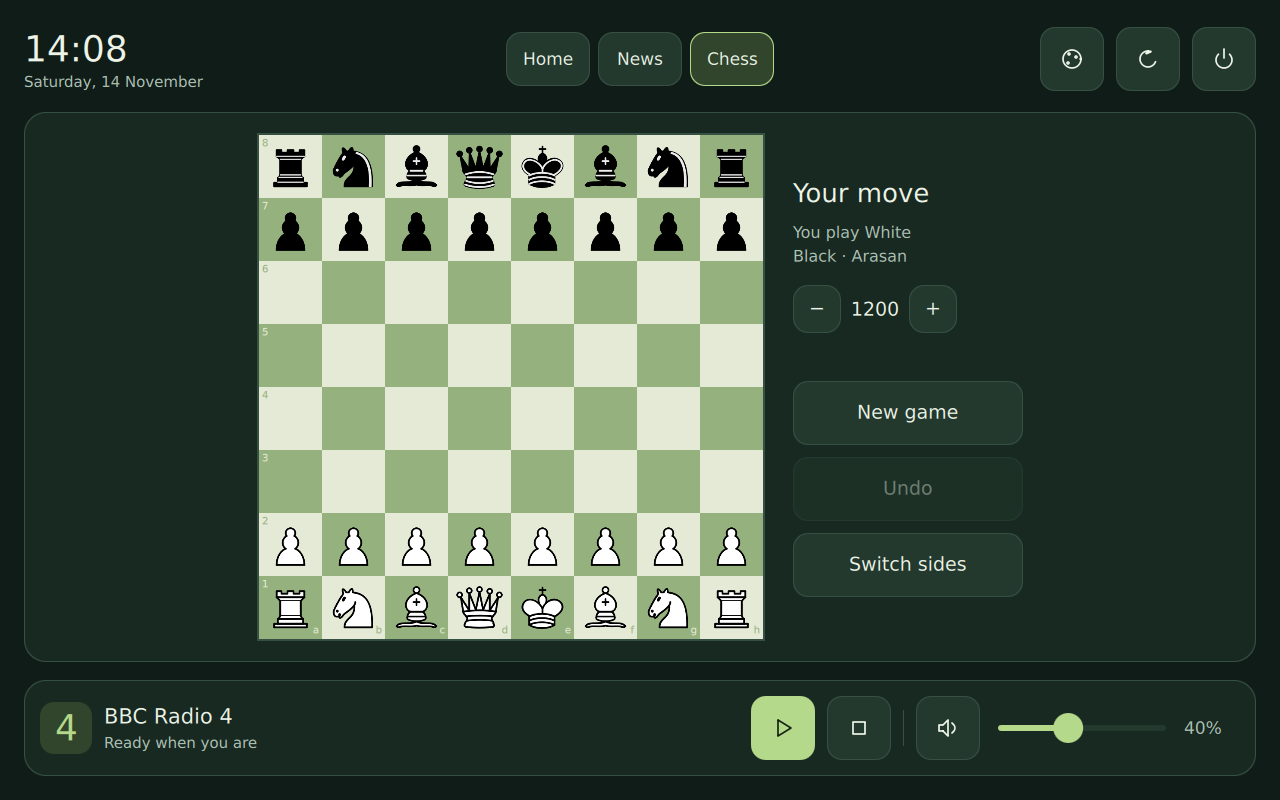
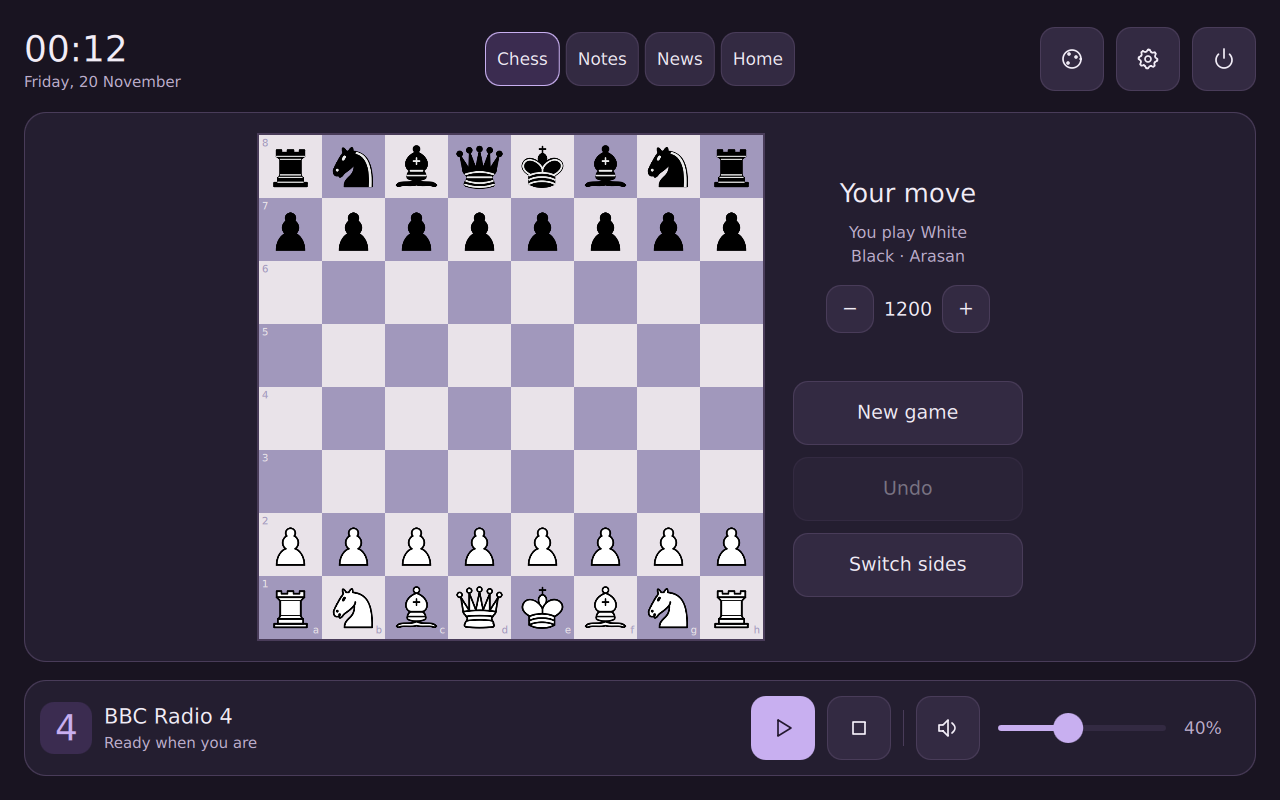
Refresh screenshot gallery with Recipes, Markets and themed Chess
Show a fuller demo recipe beside expanded Markets in Autumn, and update Chess to Dusk. Extend the offline screenshot renderer with repeatable demo scenes and selective captures.

diff --git a/app/tests/home-ui-tests.cpp b/app/tests/home-ui-tests.cpp
@@ -157,6 +157,7 @@ exec sleep 20
         qputenv("THINKSMART_WAKE_TEST_ARGUMENTS",directory.filePath("wake-arguments.json").toUtf8());
         QFile::remove(directory.filePath("assistant/wakeword.json"));
         QDir(directory.filePath("personal")).removeRecursively();
+        const bool publicScreenshots=QByteArray(QTest::currentTestFunction())=="capturePublicScreenshots";
         QJsonObject modules;
         if(QByteArray(QTest::currentTestFunction())=="moduleProfiles"){
             QFETCH(QStringList,enabledModules);for(const auto &name:DeviceConfig::names())modules.insert(name,enabledModules.contains(name));
@@ -164,10 +165,10 @@ exec sleep 20
         if(QByteArray(QTest::currentTestFunction())=="moduleSpeechSchemas")for(const auto &id:{"radio","weather","vrm","notes","iptv"})modules.insert(id,false);
         qputenv("THINKSMART_RECIPES_FILE",directory.filePath("recipes.json").toUtf8());qputenv("THINKSMART_RECIPES_CONFIG",directory.filePath("recipe-settings.json").toUtf8());
         QFile::remove(directory.filePath("recipes.json"));QFile::remove(directory.filePath("recipe-settings.json"));
-        if(QByteArray(QTest::currentTestFunction()).startsWith("recipes"))modules.insert("recipes",true);
+        if(publicScreenshots||QByteArray(QTest::currentTestFunction()).startsWith("recipes"))modules.insert("recipes",true);
         qputenv("THINKSMART_MARKETS_FILE",directory.filePath("markets.json").toUtf8());qputenv("THINKSMART_MARKETS_CACHE",directory.filePath("markets-cache.json").toUtf8());
         QFile::remove(directory.filePath("markets.json"));QFile::remove(directory.filePath("markets-cache.json"));
-        if(QByteArray(QTest::currentTestFunction()).startsWith("markets"))modules.insert("markets",true);
+        if(publicScreenshots||QByteArray(QTest::currentTestFunction()).startsWith("markets"))modules.insert("markets",true);
         qputenv("THINKSMART_AUDIOBOOKS_FILE",directory.filePath("audiobooks.json").toUtf8());qputenv("THINKSMART_AUDIOBOOKS_CACHE",directory.filePath("audiobooks-cache").toUtf8());qputenv("THINKSMART_DISABLE_AUDIOBOOKS","1");QFile::remove(directory.filePath("audiobooks.json"));QDir(directory.filePath("audiobooks-cache")).removeRecursively();
         qunsetenv("THINKSMART_MEDIA_TEST_PLAYER");
         if(QByteArray(QTest::currentTestFunction()).startsWith("audiobooks")){
@@ -211,10 +212,19 @@ exec sleep 20
         }
         if(QByteArray(QTest::currentTestFunction()).startsWith("markets")){
             auto config=DashboardConfig::defaults(DeviceConfig::modules());auto pages=config.value("pages").toArray();pages.append(QJsonObject{{"id","markets-room"},{"title","Markets"},{"kind","widgets"},{"widgets",QJsonArray{"markets"}}});config.insert("pages",pages);QString error;QVERIFY(DashboardConfig::write(config,error));DeviceConfig::reload();
+        }
+        if(publicScreenshots||QByteArray(QTest::currentTestFunction()).startsWith("markets")){
             QJsonObject quotes,charts;const auto now=QDateTime::currentSecsSinceEpoch();
             for(const auto &symbol:{"^GSPC","DX-Y.NYB","NVDA","BTC-USD","ETH-USD"}){
                 const QString name=symbol;const double value=name=="NVDA"?155.0:name=="BTC-USD"?64000.0:name=="ETH-USD"?1800.0:name=="DX-Y.NYB"?103.0:7340.0;
                 quotes.insert(name,QJsonObject{{"symbol",name},{"label",name=="^GSPC"?"S&P 500":name=="DX-Y.NYB"?"DXY":name},{"name",name=="NVDA"?"NVIDIA Corporation":name=="^GSPC"?"S&P 500":name},{"price",value},{"percent",1.23},{"currency","USD"},{"quoteTime",now},{"fetchedAt",now},{"instrumentType","CRYPTOCURRENCY"},{"changePeriod","day"}});
+                if(publicScreenshots){
+                    auto quote=quotes.value(name).toObject();
+                    quote.insert("instrumentType",name.endsWith("-USD")?"CRYPTOCURRENCY":name=="NVDA"?"EQUITY":"INDEX");
+                    quote.insert("marketStatus","Open");
+                    if(name=="DX-Y.NYB")quote.insert("percent",-0.24);
+                    quotes.insert(name,quote);
+                }
                 QJsonArray points;for(int i=0;i<40;i++)points.append(QJsonObject{{"time",now-(40-i)*300},{"value",value*(0.98+i*0.0005+std::sin(i*0.6)*0.002)}});
                 for(const auto &range:{"1D","1W","1M","1Y"})charts.insert(name+":"+range,QJsonObject{{"points",points},{"fetchedAt",now}});
             }
@@ -1460,11 +1470,17 @@ exec sleep 20
         engine->rootContext()->setContextProperty("energy",demo(energy.get(),{{"metrics",metrics},{"hasData",true},{"stale",false},{"problem",""},{"status","Demonstration data"}}));
         prepareWakeAssets();media->assistant()->setEnabled(true);QTRY_VERIFY(media->assistant()->wakeListening());
         screen->wake();media->setTheme("spring");
-        auto capture=[&](const QString &name,int width=1280,int height=800){window->resize(width,height);QTest::qWait(350);QVERIFY(window->grabWindow().save(destination+"/"+name+".png"));};
+        const auto selected=qEnvironmentVariable("THINKSMART_PUBLIC_SCREENSHOT_SET").split(',',Qt::SkipEmptyParts);
+        auto capture=[&](const QString &name,int width=1280,int height=800){if(!selected.isEmpty()&&!selected.contains(name))return;window->resize(width,height);QTest::qWait(350);QVERIFY(window->grabWindow().save(destination+"/"+name+".png"));};
         capture("home-landscape");capture("home-portrait",800,1280);
         window->resize(1280,800);media->openAppRequested("news");capture("news");
-        media->openAppRequested("chess");capture("chess");
-        media->openAppRequested("assistant");capture("assistant");
+        media->setTheme("dusk");media->openAppRequested("chess");capture("chess");
+        media->setTheme("spring");media->openAppRequested("assistant");capture("assistant");
+        const auto recipe=media->recipes()->request({{"action","recipes.show"},{"title","Harissa cauliflower & lemon couscous"},
+            {"left",QStringLiteral("**Serves 2 · 35 minutes**\n\n## Ingredients\n\n- [x] 1 small cauliflower, cut into florets\n- [ ] 400 g tin chickpeas, drained\n- [ ] 2 tbsp olive oil\n- [ ] 1 tbsp rose harissa\n- [ ] 150 g couscous\n- [ ] 200 ml hot vegetable stock\n- [ ] 1 lemon, zest and juice\n- [ ] 3 tbsp thick yoghurt\n- [ ] Parsley & toasted almonds")},
+            {"right",QStringLiteral("## Method\n\n### 1. Roast\nHeat the oven to **220°C / 200°C fan**. Toss cauliflower and chickpeas with oil, harissa and salt. Roast **25 minutes**, turning halfway.\n\n### 2. Fluff\nCover couscous with hot stock for **5 minutes**. Fluff, then fold in lemon zest and parsley.\n\n### 3. Finish\nMix yoghurt with lemon juice. Spoon over the warm bowls and top with toasted almonds.")}});
+        QVERIFY(recipe.value("ok").toBool());media->openAppRequested("recipes");capture("recipes");
+        media->setTheme("autumn");QVERIFY(media->markets()->select("NVDA"));media->openAppRequested("markets");capture("markets");
     }
     void captureMockup() {
         const QString destination=qEnvironmentVariable("THINKSMART_CAPTURE_DIR");

diff --git a/README.md b/README.md
@@ -88,11 +88,13 @@ starting prompt and contribution workflow.
 | --- | --- |
 | ![Voice assistant](docs/screenshots/assistant.png) | ![News feeds](docs/screenshots/news.png) |
 
-| Chess | Portrait layout |
+| Chess · Dusk theme | Portrait layout |
 | --- | --- |
 | ![Chess](docs/screenshots/chess.png) | ![Portrait dashboard](docs/screenshots/home-portrait.png) |
 
-![Recipes with ingredients, method and touch checklists](docs/screenshots/recipes.png)
+| Recipes | Markets · Autumn theme |
+| --- | --- |
+| ![Recipes with ingredients, method and touch checklists](docs/screenshots/recipes.png) | ![Expanded Markets with a synthetic NVIDIA price chart](docs/screenshots/markets.png) |
 
 **Licence:** our original code is [MIT](LICENSE). Imported code and artwork keep
 their own licences; see [third-party notices](THIRD_PARTY.md). Linked dependencies,

diff --git a/docs/DEVELOPMENT.md b/docs/DEVELOPMENT.md
@@ -65,11 +65,14 @@ fixtures instead of relying on the developer's voice-preview collection.
 ## Public screenshots
 
 `capturePublicScreenshots` renders the real UI with synthetic London weather,
-energy readings and news fixtures. It starts no cloud conversation. Render with
+energy readings, news fixtures, example recipes and synthetic market prices.
+It starts no cloud conversation. Render with
 Xvfb/OpenGL for the GPU orb, or offscreen/software for the Canvas fallback:
 
 ```sh
 ./tools/render-screenshots.sh
+# Refresh only selected images:
+THINKSMART_PUBLIC_SCREENSHOT_SET=recipes,markets,chess ./tools/render-screenshots.sh
 ```
 
 Review the generated PNGs before publishing; use no real household data, server
